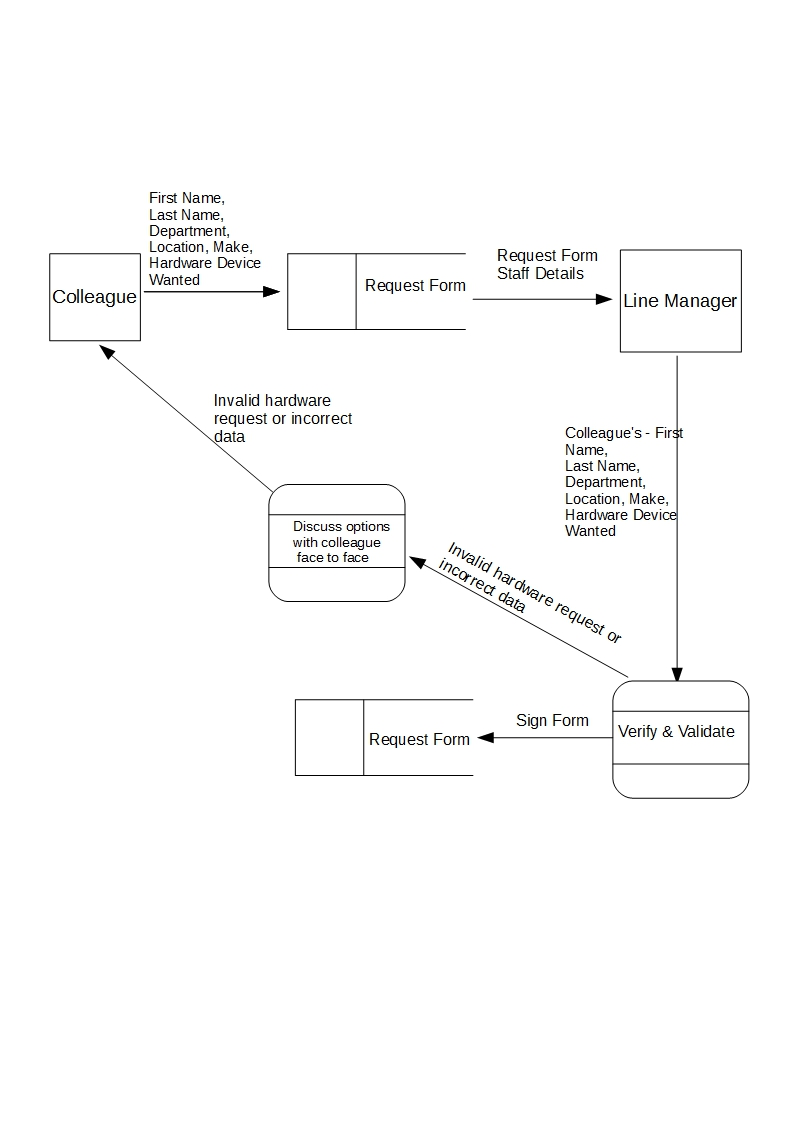
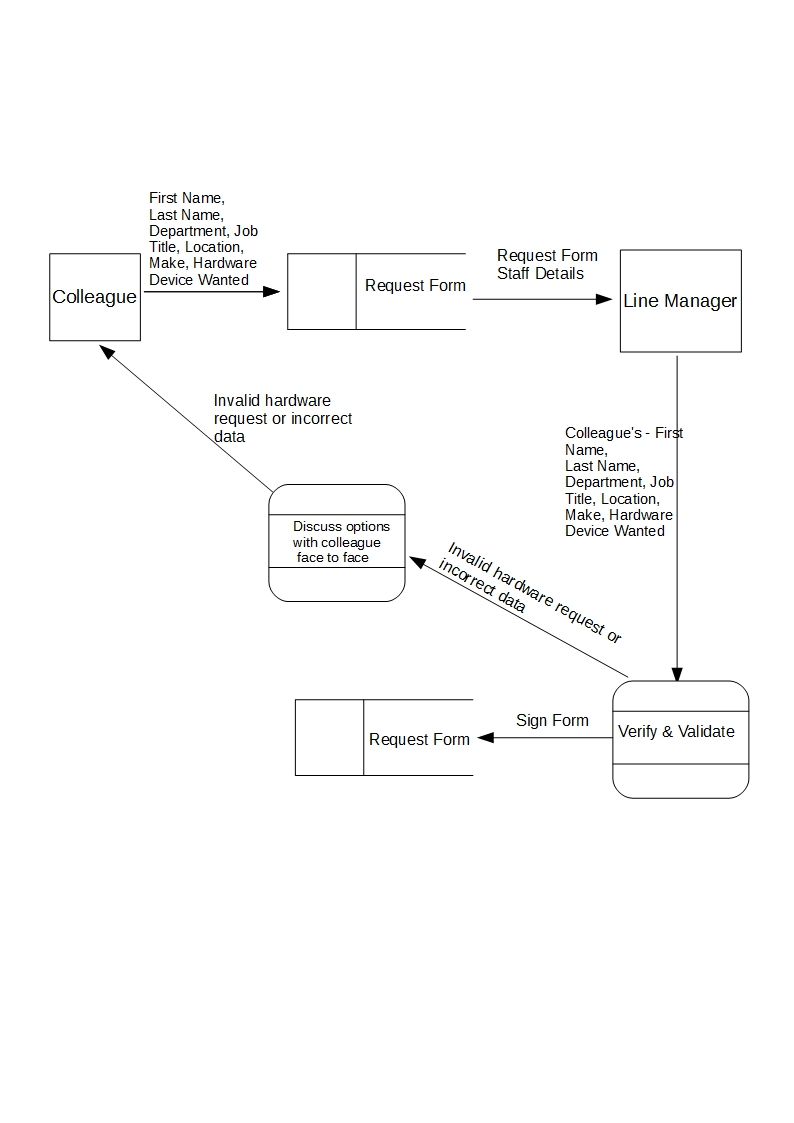
FINISHED

Changed region(s): [[0.6952, 0.4052, 0.8463, 0.4987], [0.1814, 0.187, 0.3325, 0.2805]]

diff --git a/Coursework/Analysis/analysis.tex b/Coursework/Analysis/analysis.tex
@@ -11,7 +11,7 @@ Chranj helps to allocate hardware devices to all co-workers in the business, it 
 
 \subsection{Define the current system}
 
-Currently the system used is a spreadsheet on Excel. A customer will fill out a form manually on paper including their name and hardware devices they require, they then give it to their manager who will add an entry on the spreadsheet.  The spreadsheet stores the names of staff as well as which hardware device they have been allocated. Line managers have to also fill out these request forms and provide their own signature, IT staff however do not need to as they will store the information they want in their heads. If someone leaves the workplace the hardware device is handed back to their manager and allocated to someone else, their record will also be removed off the database. 
+Currently the system used is a spreadsheet on Excel. A customer will fill out a form manually on paper including their name and hardware devices they require, they then give it to their manager who will sign the document and give it to the IT staff who will copy the data onto the spreadsheet.  The spreadsheet stores the names of staff (with details such as job title and department) as well as which hardware device they have been allocated. Line managers have to also fill out these request forms and provide their own signature, IT staff however do not need to as they will store the information they want in their heads. If someone leaves the workplace the hardware device is handed back to their manager and allocated to someone else, their record will also be removed off the spreadsheet. 
 
 The only people currently using this spreadsheet are 3 members of the IT staff (including my client) as it has not been setup for different access rights. When wanting to search for information the built-in excel search function is used. The current system does have some fairly good ways to query and sort information (such as ascending order), drop down boxes on the form title allows the user to select which records they want to show and which they want to hide. For example ticking the "Acer" box in Make/Model will show only the records with Acer as their Make/Model. 
 
@@ -50,12 +50,13 @@ In the current system there are three data sources used, the colleague, the line
 Colleague                             & First Name                         & John                                               & Form                                      \\ \hline
 Colleague                             & Last Name                          & Smith                                              & Form                                      \\ \hline
 Colleague                             & Department                              & Financing                                            & Form                                      \\ \hline
+Colleagye 			& Job Title				& Finance Accountant				& Form			\\ \hline
 Colleague                             & Location                              & Orwell                                            & Form                                      \\ \hline
 Colleague                             & Hardware Device Wanted             & Phone                                              & Form                                      \\ \hline
 Colleague                             & Make                               & iPhone                                             & Form                                      \\ \hline
-Form                                  & Form Details                       & John, Smith, Phone, iPhone,Financing,Orwell                 & Line Manager                              \\ \hline
+Form                                  & Form Details                       & John, Smith, Phone, iPhone,Financing,Orwell, Finance Accountant                & Line Manager                              \\ \hline
 Line Manager                          & Signature                          & Tim Richardson                                     & Form                                      \\ \hline
-Form                                  & Form Details Including Signature   & John, Smith, Phone, iPhone,Financing,Orwell, Tim Richardson & IT Staff Member                           \\ \hline
+Form                                  & Form Details Including Signature   & John, Smith, Phone, iPhone,Financing,Orwel,  Finance Accountant, Tim Richardson & IT Staff Member                           \\ \hline
 IT Staff Member 	&Hardware Device Request & iPhone & Supplier 												\\ \hline
 Supplier & Devices Available & iPhone 6 Plus & IT Staff Member \\ \hline
 Supplier & Cost & £400 &IT Staff Member \\ \hline
@@ -63,7 +64,7 @@ Supplier & Estimated Delivery Time & 10 Working Days & IT Staff Member \\ \hline
 Supplier & Device Ordered, Cost, Warranty, Warranty Period, Estimated Delivery Time, Serial Number & iPhone 6 Plus, £400, 3 year warranty, 10 working days, 832327 & Electronic Receipt \\ \hline
 Electronic Receipt  & Device Ordered, Cost, Warranty, Warranty Period, Estimated Delivery Time, Serial Number & iPhone 6 Plus, £400, 3 year warranty, 10 working days, 832327 & IT member's email \\ \hline
 IT Staff Member & Estimated Delivery Time & 10 Working Days & Notes (on computer or diary) \\ \hline
-IT Staff Member                      & Form Details   & John, Smith, Phone, iPhone 6 Plus,Financing ,Orwell, & Excel Spreadsheet                                   \\ \hline
+IT Staff Member                      & Form Details   & John, Smith, Phone, iPhone 6 Plus,Financing,  Finance Accountant ,Orwell, & Excel Spreadsheet                                   \\ \hline
 IT Staff Member                             & Model                              & 6 Plus                                             & Excel Spreadsheet                                       \\ \hline
 IT Staff Member                       & Serial Number                      & 71624                                          &  Excel Spreadsheet           \\ \hline
 \end{tabular}
@@ -195,39 +196,39 @@ This algorithm is using the built in search function to find a field in the spre
 
 \begin{figure}[H]
 \includegraphics[width=\textwidth]{CurrentDFD.jpg}
-\caption{A colleague filling in a hardware request form, this is then passed to the line manager for checking} \label{Page1Interview}
+\caption{A colleague filling in a hardware request form with all necessary details, this is then passed to the line manager for checking. The manager will verify and validate the information and either hand it back to the colleague in person or sign it and keep hold of it.} \label{Page1Interview}
 \end{figure}
 
 \begin{figure}[H]
 \includegraphics[width=\textwidth]{dtd1.jpg}
-\caption{line manager for checking} \label{Page1Interview}
+\caption{This data flow diagram shows how a line manger would complete a hardware request form. Since they are the highest in their department they will need to thoroughly verify and validate the information (since no one else checks it) before signing it themselves.} \label{Page1Interview}
 \end{figure}
 
 \begin{figure}[H]
 \includegraphics[width=\textwidth]{dataflowdiagram2.jpg}
-\caption{The form is given to the IT staff who will check if the request form has a manager's signature } \label{Page1Interview}
+\caption{The filled out form is given to an IT staff member who will check for a valid signature. If there is no signature or the signature looks fraudulant they will hand it back (in person) to the line manager who will sign it. If it is valid, the form can be stored in their physical desk draw.} \label{Page1Interview}
 \end{figure}
 
 \begin{figure}[H]
 \includegraphics[width=\textwidth]{dataflowdiagram3.jpg}
-\caption{The IT staff check with the company's distributer to check if the item is in stock, if it is not the manager is told. If the item is in stock, the information about the product is entered into the spreadsheet along with the details off the request form} \label{Page1Interview}
+\caption{This is the process of the hardware requests being purchased. The IT staff check with the company's distributer via phone to check if the item is in stock, if it is not in stock the manager is told and options are discussed to either wait for it to be back in stock or cancel the request. If the item is in stock, the information about the product is entered into the spreadsheet along with the details off the request form} \label{Page1Interview}
 \end{figure}
 
 \subsubsection{Input Forms, Output Forms, Report Formats}
 
 \begin{figure}[H]
 \includegraphics[width=.9\textwidth,height=.9\textheight,keepaspectratio]{HardwareRequestForm.jpg}
-\caption{\textbf{The Hardware Request Form}:This document has only been filled in with the required details to be stored on the system. The rest of the details are not necessary to be stored in the hardware allocation system. Att the bottom of the form the signature from the line manager is shown, this is therefore an authorised form.} \label{HardwareRequestForm}
+\caption{\textbf{The Hardware Request Form}:This document has only been filled in with the required details to be stored on the system. The rest of the details are not necessary to be stored in the hardware allocation system. At the bottom of the form the signature from the line manager is shown, this is therefore an authorised form.} \label{HardwareRequestForm}
 \end{figure}
 
 \begin{figure}[H]
 \includegraphics[width=.9\textwidth,height=.9\textheight,keepaspectratio]{Spreadsheet2.jpg}
-\caption{\textbf{The Hardware Allocation Spreadsheet}: As shown above the spreadsheet is not properly used by staff. Wrong data has been entered in the name box (see cell 172) and altogether the spreadsheet is messy. The comments section on the spreadsheet displays a basic statement of what the hardware device is, for instance "HP ZR22w" (cell F 145) is classed as a "Monitor". A good feature of this spreadsheet is the dropdown arrows next to the column headings, from here you can sort data into ascending or decending order (alphabetical order) and choose to hide or show certain fields. Overall the spreadsheet does store the necessary data for each person with their hardware devices but needs to be a lot clearer.} \label{Spreadsheet}
+\caption{\textbf{The Hardware Allocation Spreadsheet}: As shown above the spreadsheet is not properly used by staff. Wrong data has been entered in the name box (see cell 172) and altogether the spreadsheet is messy. The description section on the spreadsheet displays a basic statement of what the hardware device is, for instance "HP ZR22w" (cell F 145) is classed as a "Monitor". A good feature of this spreadsheet is the dropdown arrows next to the column headings, from here you can sort data into ascending or decending order (alphabetical order) and choose to hide or show certain fields. Overall the spreadsheet does store the necessary data for each person with their hardware devices but needs to be a lot clearer.} \label{Spreadsheet}
 \end{figure}
 
 \begin{figure}[H]
 \includegraphics[width=.9\textwidth,height=.9\textheight,keepaspectratio]{LeaveOfWork.jpg}
-\caption{When someone leaves the company they are required to give back all hardware devices. There is no official form or signature required for this so in most cases their line manager will simply write it down as shown above. After they have left they can be removed from the spreadsheet and their hardware device will be reallocated to someone else getting hired.} \label{LeaveOfWork}
+\caption{When someone leaves the company they are required to give back all hardware devices. I spoke to my client after the interview to check of there are any official forms for returning devices to the company, Chranj says there is no official form or signature required for this, so in most cases their line manager will simply write it down as shown above. After they have left they can be removed from the spreadsheet and their hardware device will be allocated to someone else getting hired (or put into storage).} \label{LeaveOfWork}
 \end{figure}
 
 \begin{figure}[H]
@@ -235,13 +236,15 @@ This algorithm is using the built in search function to find a field in the spre
 \caption{When the IT staff have ordered new hardware devices from the company's distributer it may be handy to write down when the delivery will be coming. Colleagues may become impatient so it is good to have a date. They may also choose to write down how many items are being delivered incase the wrong amount arrive.} \label{OrdersPlaced}
 \end{figure}
 
-There is no signature or form when the staff member is given the actual hardware device, all staff members of the same status will get similar hardware devices and they can either accept it or use their own. If rejected, the device is allocated to somebody else.
+Whilst talking to Chranj after the interview I asked if there were any forms to sign when actually given the hardware device to show you accepted it. There is no signature or form when the staff member is given the actual hardware device, all staff members of the same status will get similar hardware devices and they can either accept it or use their own. If rejected, the device is allocated to somebody else and the spreadsheet can be edited so the individual is no longer allocated that device (as they are added to the spreadsheet beforehand). The whole company will use the same buisness phone (normally iPhone's or Nokia's). 
 
 \subsection{The proposed system}
 
 \subsubsection{Data sources and destinations}
 
 In the proposed system collegue details and hardware requests will still be received via physical form and entered manually onto the system. The new system will store the same information from the colleagues however the IT staff will store more infomation on products such as IMEI numbers (for phones) (see question 3 in interview). The phone number will be added to the database after the phone has arrive so the colleague can insert their sim card. The IMEI number is printed on the box and will only be known when delivered this will be recorded before giving to the colleague.
+
+\newpage
 
 \begin{longtable}{|p{3cm}|p{3cm}|p{3cm}|p{3cm}|}
 \hline
@@ -283,17 +286,17 @@ IT Staff Member & IMEI Number (if phone)           &EH37000781        & Database
 
 \begin{figure}[H]
 \includegraphics[width=\textwidth]{CurrentDFD.jpg}
-\caption{This is the same process as with the last system. The colleague will fill in all necessary form details and give it to their line manager. The line manager will sign it and give it to the IT Staff.} \label{Page1Interview}
+\caption{This is the same process as with the last system. The colleague will fill in all necessary form details and give it to their line manager. The line manager wil verify and validate the information andl sign it.} \label{Page1Interview}
 \end{figure}
 
 \begin{figure}[H]
 \includegraphics[width=\textwidth]{dataflowdiagram2.jpg}
-\caption{This part of the system is also the same as the current system. The form is given to the IT staff who will check if the request form has a manager's signature } \label{Page1Interview}
+\caption{This part of the system is also the same as the current system. The form is given to the IT staff who will check if the request form has a manager's signature. } \label{Page1Interview}
 \end{figure}
 
 \begin{figure}[H]
 \includegraphics[width=\textwidth]{DFDLogin.jpg}
-\caption{This shows hardware information being entered onto the system. The IT Staff have their own login credentials to provide them with full access and they can then enter new data. After data has been added it will be necessary to log out again. } \label{Page1Interview}
+\caption{This shows hardware information being entered onto the new system. The IT Staff have their own login credentials to provide them with full access and they can then enter new data. After data has been added it will be necessary to log out again. If the item is not in stock options are discussed with the line manager (Just as figure 1.6)  } \label{Page1Interview}
 \end{figure}
 
 \begin{figure}[H]
@@ -308,14 +311,15 @@ IT Staff Member & IMEI Number (if phone)           &EH37000781        & Database
 
 \begin{figure}[H]
 \includegraphics[width=\textwidth]{ManagerReadOnly.jpg}
-\caption{This shows how managers also have read only access to check their department.} \label{Page1Interview}
+\caption{This shows how managers also have read only access to check all staff in their department.} \label{Page1Interview}
 \end{figure}
-\newpage
+
+
 
 \subsubsection{Data dictionary}
 
 \begin{center}
-\begin{tabular}{|p{4cm}|p{1.3cm}|p{1.1cm}|p{1.7cm}|p{1.7cm}|p{2cm}|}
+\begin{longtable}{|p{4cm}|p{1.3cm}|p{1.1cm}|p{1.7cm}|p{1.7cm}|p{2cm}|}
 \hline
 \textbf{Name} & \textbf{Data Type}& \textbf{Length} & \textbf{Validation} & \textbf{Example Data} & \textbf{Comment}      \\ \hline
 StaffID                             & Integer                                 & 1-200                     & Range Validation \textgreater0 and \textless=350                                 & 132                   & Unique to the staff   \\ \hline
@@ -336,14 +340,14 @@ HardwareSerialNumber                & String                                  & 
 HardwarePurchaseDate                & Date                                  &                                  & Format                                   & 11/03/2015              &                       \\ \hline
 HardwareIMEI                & String                                  &          1-50                        & Length                                   & EH37000781               & Only required for phones                      \\ \hline
 HardwarePhoneNumber                & String                                  &1-11                                  & Length                                   & 07927551125              &   Only required for phones                      \\ \hline
-DepartmentID &Integer				& 1-4				&Range Validation \textgreater0 and \textless=75		& 24		&	\\ \hline
+DepartmentID &Integer				& 1-4				&Range Validation \textgreater0 and \textless=75		& 24		& Unique for each department	\\ \hline
 DepartmentName & String				& 1-30				& Length		& Financing		&	\\ \hline
-LocationID &Integer				& 1-4				&Range Validation \textgreater0 and \textless=20		& 	24	&		\\ \hline
+LocationID &Integer				& 1-4				&Range Validation \textgreater0 and \textless=20		& 	24	& Unique for each work location		\\ \hline
 LocationName & String				& 1-30				& Length		&	Orwell	 &  \\ \hline
 LocationAddrLine1 & String				& 1-30				& Length		&	50 Fisher's Ln	 &  \\ \hline
 LocationAddrLine2 & String				& 1-30				& Length		&	Orwell	 &  \\ \hline
 LocationAddrLine3  & String				& 1-30				& Length		&	Royston 	 &  \\ \hline
-\end{tabular}
+\end{longtable}
 \end{center}
 
 \subsubsection{Volumetrics}
@@ -422,19 +426,21 @@ The link table (StaffHardware)
 \subsection{General Objectives}
 
 \begin{itemize}
-\item A database to show all current staff and the hardware devices they are assigned to.
+\item A database to show all current staff (with details such as their job title) and the hardware devices they are assigned to.
 \item The database will replace the current spreadsheet and be easy to read as information will be clear and organised.
-\item An easy to use database for IT staff to enter colleague data with toolbar buttons and keyboard shortcuts.
-\item The layout for colleagues to see their hardware allocations will be clear and to the point missing out any unnecessary buttons and menus.
+\item An easy to use database for IT staff to enter colleague data with toolbar buttons and keyboard shortcuts as they are advanced computer users and will want an quicker way of doing things.
+\item The layout for colleagues to see their hardware allocations will be clear and to the point, missing out any unnecessary buttons and menus.
 \item A search function will be in place to make searching for a field (such as staff member or hardware device) easy.
 \end{itemize}
 
 \subsection{Specific Objectives}
 
 \begin{itemize}
-\item The database will have one table with staff and a relationship to the table with their hardware device. This will show which hardware devices the staff are allocated and all the details of that hardware device.
+\item The database will have one table with staff and a relationship to the table with their hardware device. This will show which hardware devices the staff are allocated and all the details of that hardware device. Staff details including department and location will be linked to the Department and Location tables.
 \item The search function will allow a user to enter text and will highlight where on the page that text is.
-\item Read-Only access for colleagues viewing their own information (with a log-in system to allow this).
+\item Read-Only access for staff viewing their own information (with a log-in system to allow this).
+\item Read-Only access for line managers wanting to see all data about staff in their department.
+\item Admin rights for IT staff so they are able to view and edit all data on the database.
 \item  An automatic email will be sent to IT staff members reminding them that a warranty is running out on a particular device, this email will be sent about 3 months before the end of the warranty period.
 \item Users will be able to query information, for example if they wanted to show only mobile phones or if they wanted to show only specific departments.
 \item A method of sending hardware request forms electronically may be introduced to elimate the need for physical copies.
@@ -443,7 +449,7 @@ The link table (StaffHardware)
 
 \subsection{Core Objectives}
 \begin{itemize}
-\item The system will provide a login system where IT staff can assign usernames to all staff. The database will have read-only access for colleagues viewing their own information. Managers will be able to view their departments hardware devices.
+\item The system will provide a login system where IT staff can assign usernames to all staff and have admin rights to view all data. The database will have read-only access for colleagues viewing their own information. Managers will be able to view their departments hardware devices.
 \item The system will also have an automatic email sent to IT staff members reminding them that a warranty is running out on a particular device, this email will be sent about 3 months before the end of the warranty period.
 \item The system must have a search function to allow a user to find a specific field.
 \item The system must have a way to query information so that a user can filter or catergorise information (such as by department or location)
@@ -526,7 +532,7 @@ Location  (\underline{LocationID}, LocationName, LocationAddrLine1, LocationAddr
 \hspace*{-1.3cm}
 \vspace*{-1cm}
 \includegraphics[width=1\textwidth]{ClassDefinitions.jpg}
-\caption{The class definitions show the attributes and methods for each class. The staff class will hold unique IDs from the other classes to make the relationship} \label{Class Definitions}
+\caption{The class definitions show the attributes and methods for each class. The staff class will hold unique IDs from the other classes to make the relationship.} \label{Class Definitions}
 \end{figure}
 
 \section{Other Abstractions and Graphs}
@@ -598,4 +604,4 @@ PyQt GUI Application &		 Providing a GUI interface for the database using PyQt w
 
 \subsection{Justification of chosen solution}
 
-The ideal solution is to use a web based application since the client orginally asked for a online database to be made. However due to the fact it will take a long time to learn and implement this solution is placed in the "other objectives" section. The solution I will be using is a PyQt application, I will be using PyQt in class and already have a clear understanding of how to use it which will make implementation much faster. PyQt will be better than the current spreadsheet as the multiple tables can be made with relationships between them (hardware devices and staff). With the chosen method a log-in system can be implemented and staff can be assigned different restrictions which the client requested in the interview (question 12).
+The ideal solution is to use a web based application since the client orginally asked for a online database to be made. However due to the fact it will take a long time to learn and implement this solution is placed in the "other objectives" section. The solution I will be using is a PyQt application, I will be using PyQt in class and already have a clear understanding of how to use it which will make implementation much faster. I spoke to my client after the interview to check if PyQt without online features would suffice and he says it should be fine but if there is time it would be a bonus to allow online connections. PyQt will be better than the current spreadsheet as the multiple tables can be made with relationships between them (hardware devices, staff, department and location). With the chosen method a log-in system can be implemented and staff can be assigned different restrictions which the client requested in the interview (question 12). Shortcuts in PyQt provide a great advantage for my client, since they are advanced computer users, after they have got used to the system they will always be finding quicker ways of doing things so the use of shortcut keys are important.
